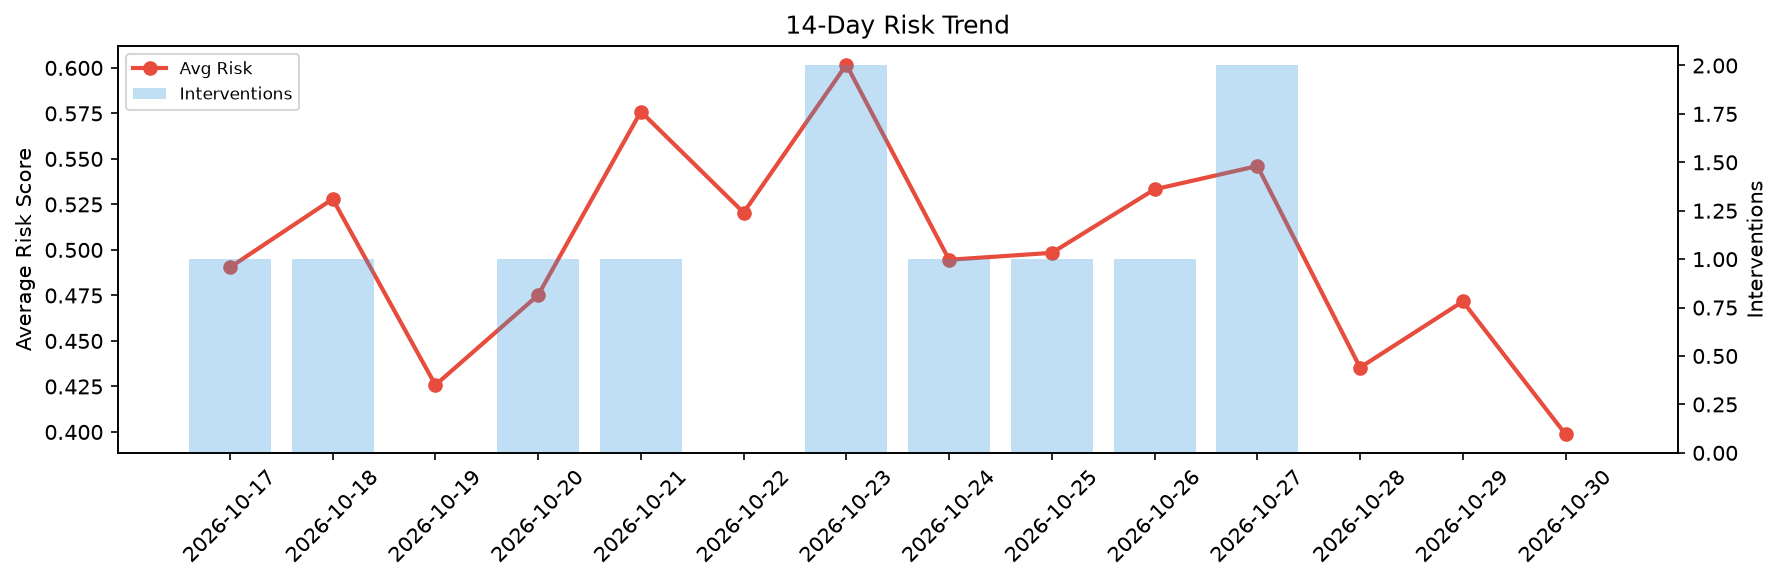
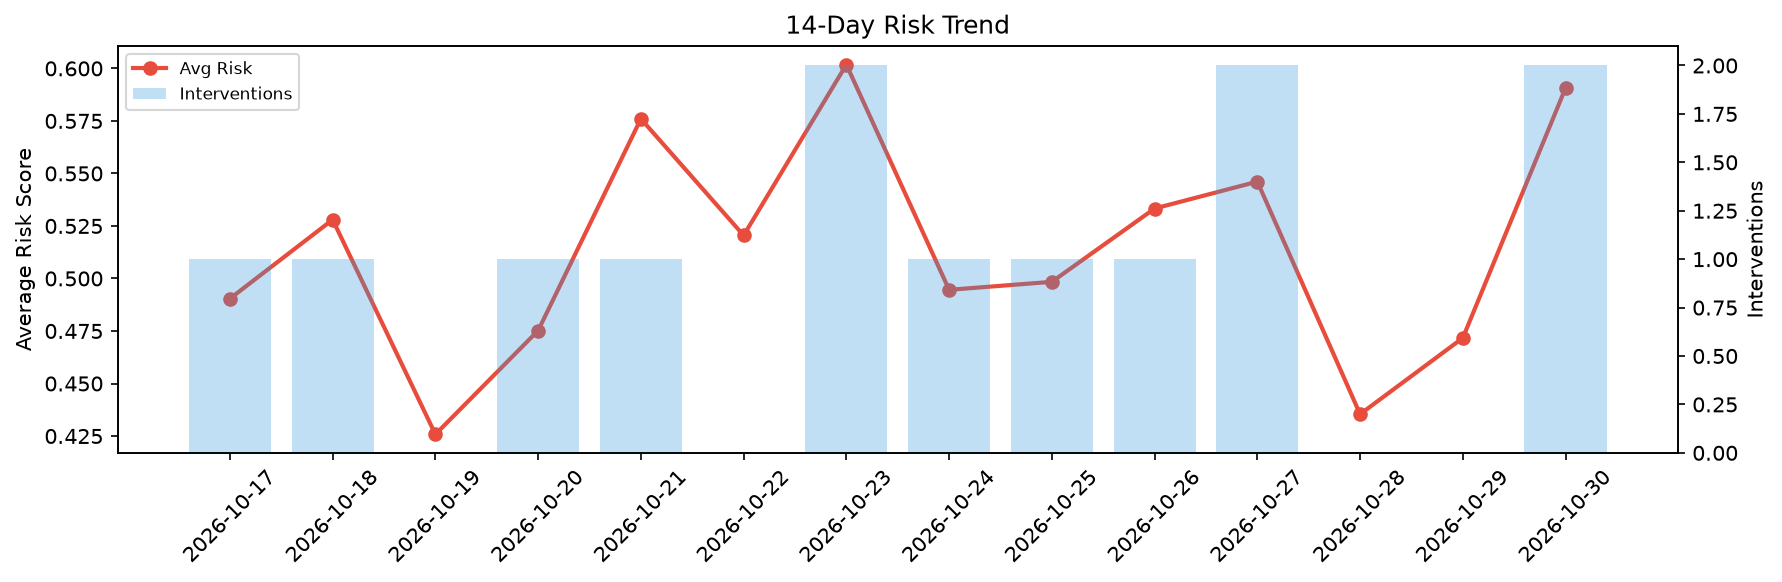
agent-improvement: daily cycle 2026-10-30T23:43

diff --git a/logs/2026-10-30.md b/logs/2026-10-30.md
@@ -1,6 +1,6 @@
 # Agent Improvement Report — 2026-10-30
 
-**Cycle ID:** `b170c40f` | **Avg Risk:** 0.3987 | **Interventions:** 0/4
+**Cycle ID:** `69bcaa18` | **Avg Risk:** 0.5907 | **Interventions:** 2/4
 
 ![Dashboard](2026-10-30_dashboard.png)
 
@@ -10,18 +10,18 @@
 
 | Domain | Risk Score | Decision | Alerts |
 |--------|-----------|----------|--------|
-| code_review | 0.2554 | monitor | none |
-| incident_response | 0.5957 | monitor | mttr |
-| data_pipeline | 0.2176 | monitor | none |
-| deployment | 0.5262 | monitor | none |
+| code_review | 0.7954 | intervene | coverage |
+| incident_response | 0.4144 | monitor | none |
+| data_pipeline | 0.5156 | monitor | volume_anomaly |
+| deployment | 0.6376 | intervene | canary_error, latency_p99 |
 
 ## Delta vs Yesterday
 
 | Domain | Today | Yesterday | Change |
 |--------|-------|-----------|--------|
-| code_review | 0.2554 | 0.5694 | 📉 -55.1% |
-| incident_response | 0.5957 | 0.5811 | 📈 2.5% |
-| data_pipeline | 0.2176 | 0.3658 | 📉 -40.5% |
-| deployment | 0.5262 | 0.3705 | 📈 42.0% |
+| code_review | 0.7954 | 0.5694 | 📈 39.7% |
+| incident_response | 0.4144 | 0.5811 | 📉 -28.7% |
+| data_pipeline | 0.5156 | 0.3658 | 📈 41.0% |
+| deployment | 0.6376 | 0.3705 | 📈 72.1% |
 
-**Refinement:** `{'adjustment': 'tighten_thresholds', 'trend': 'degrading', 'window': 4}`
+**Refinement:** `{'adjustment': 'maintain', 'trend': 'improving', 'window': 4}`
